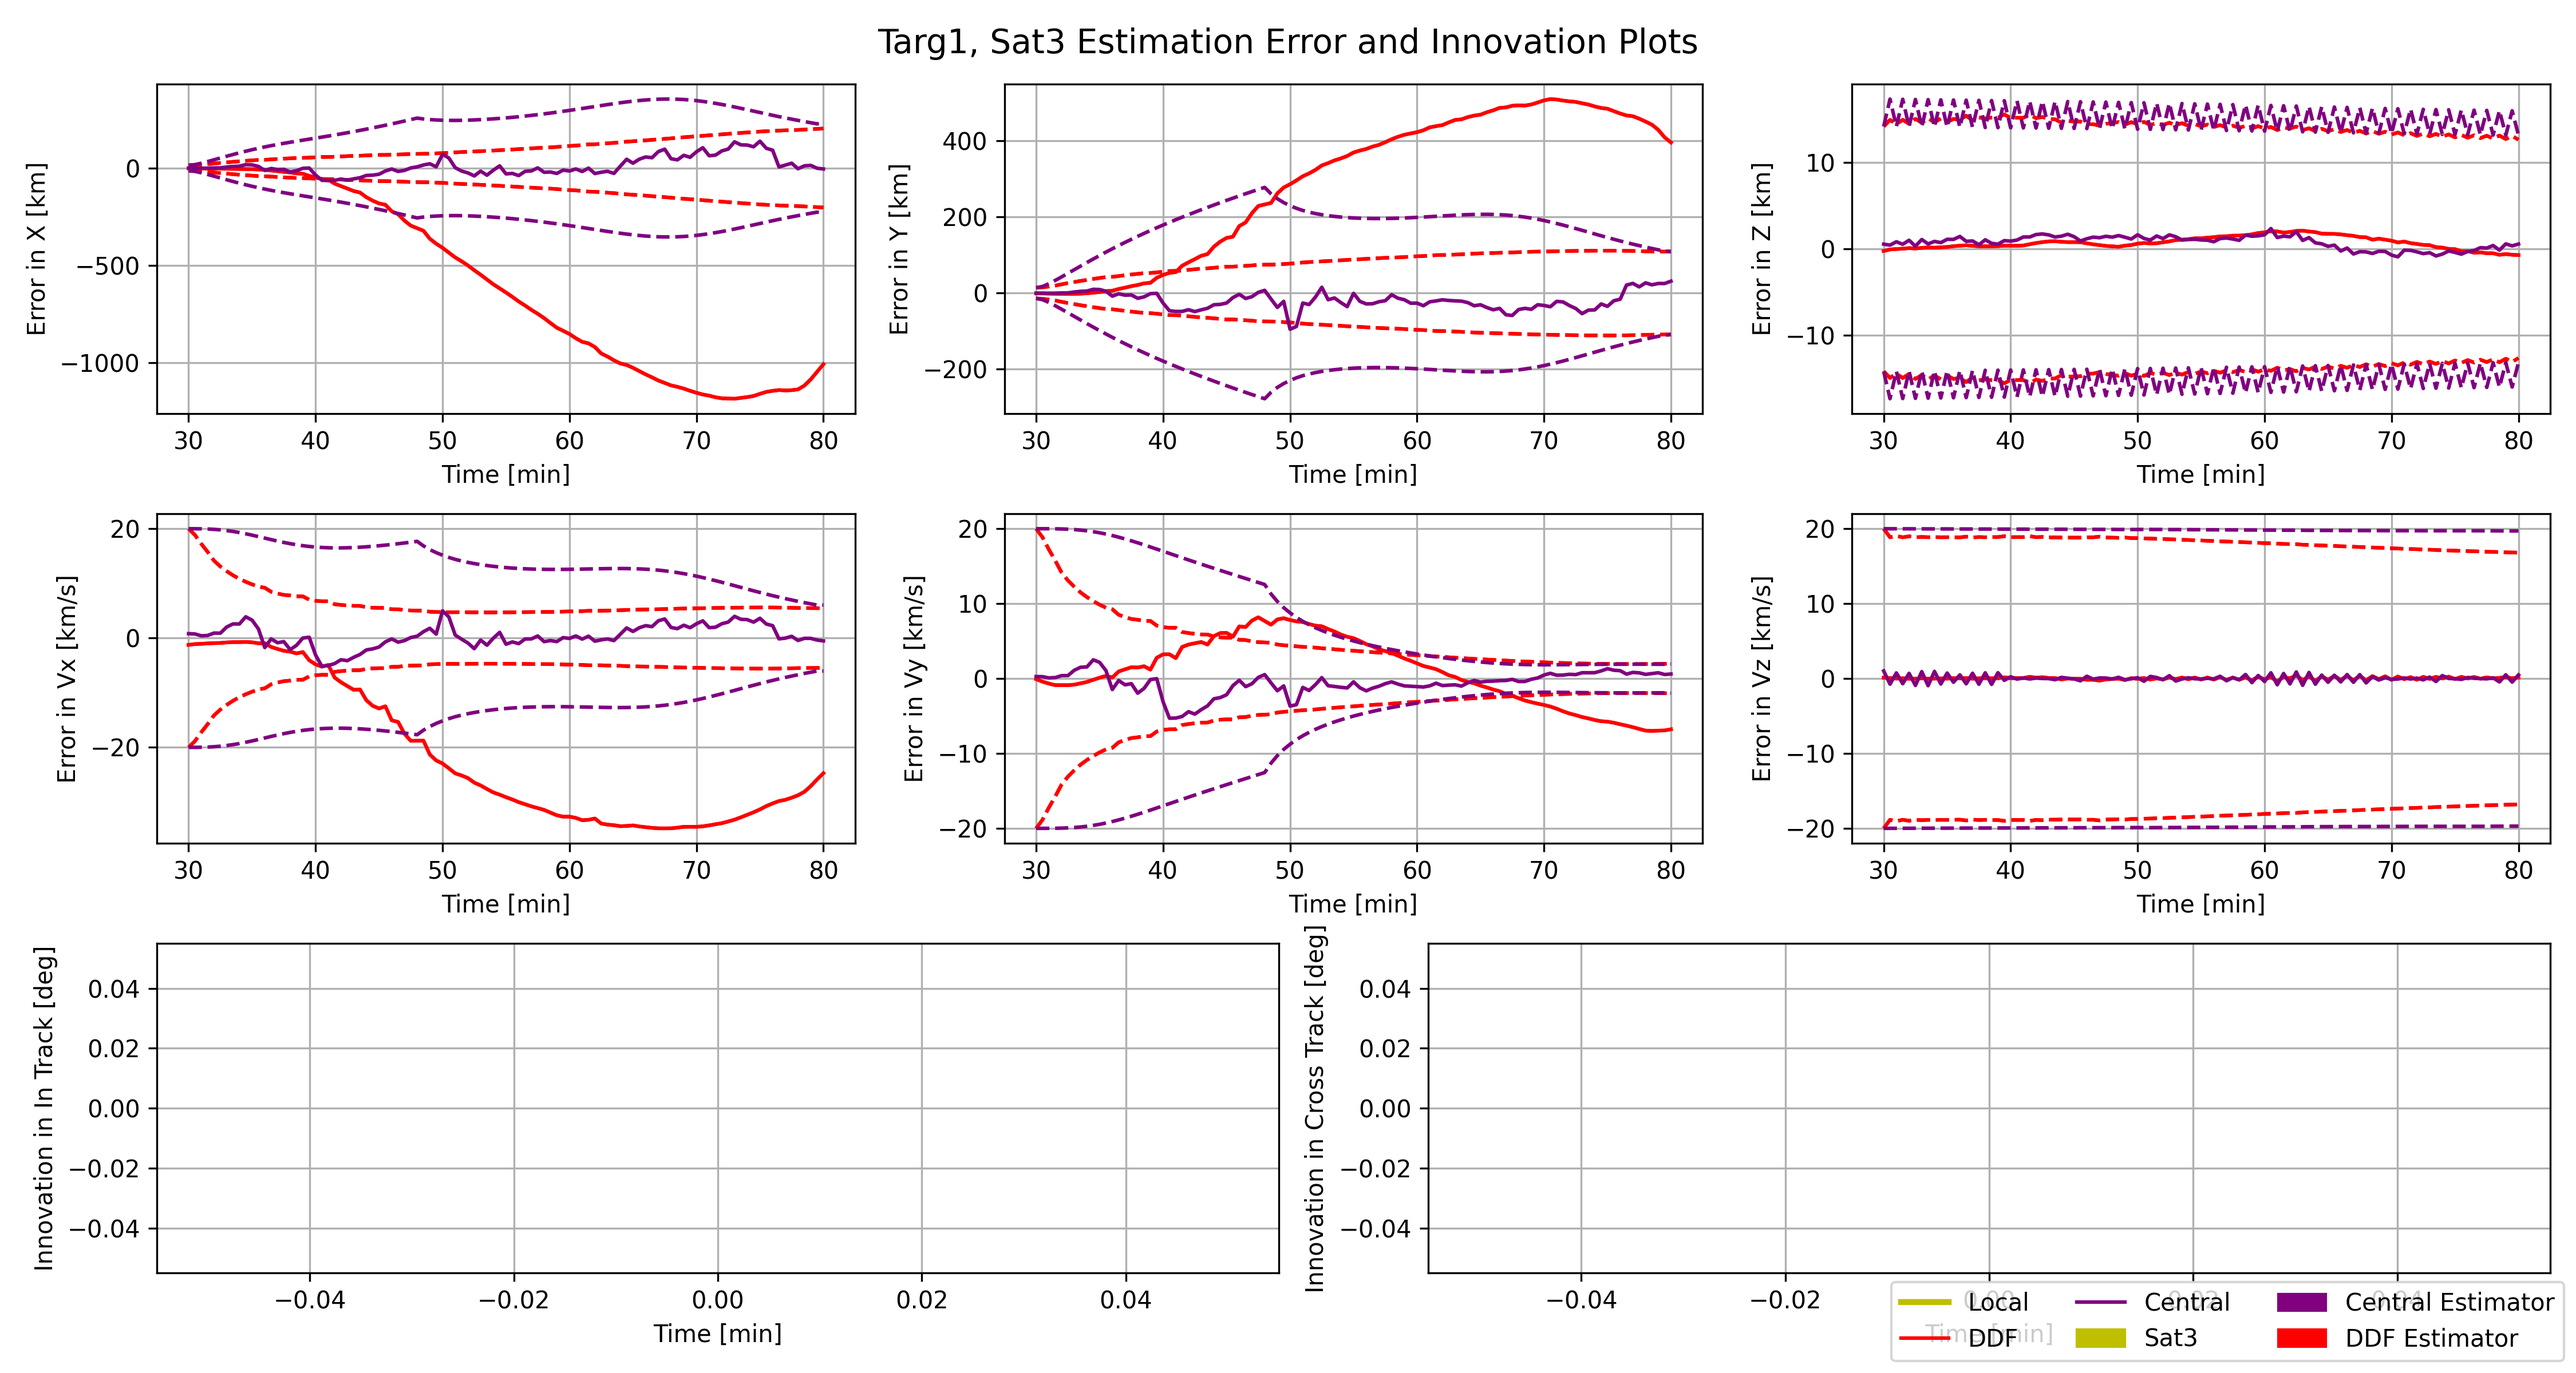
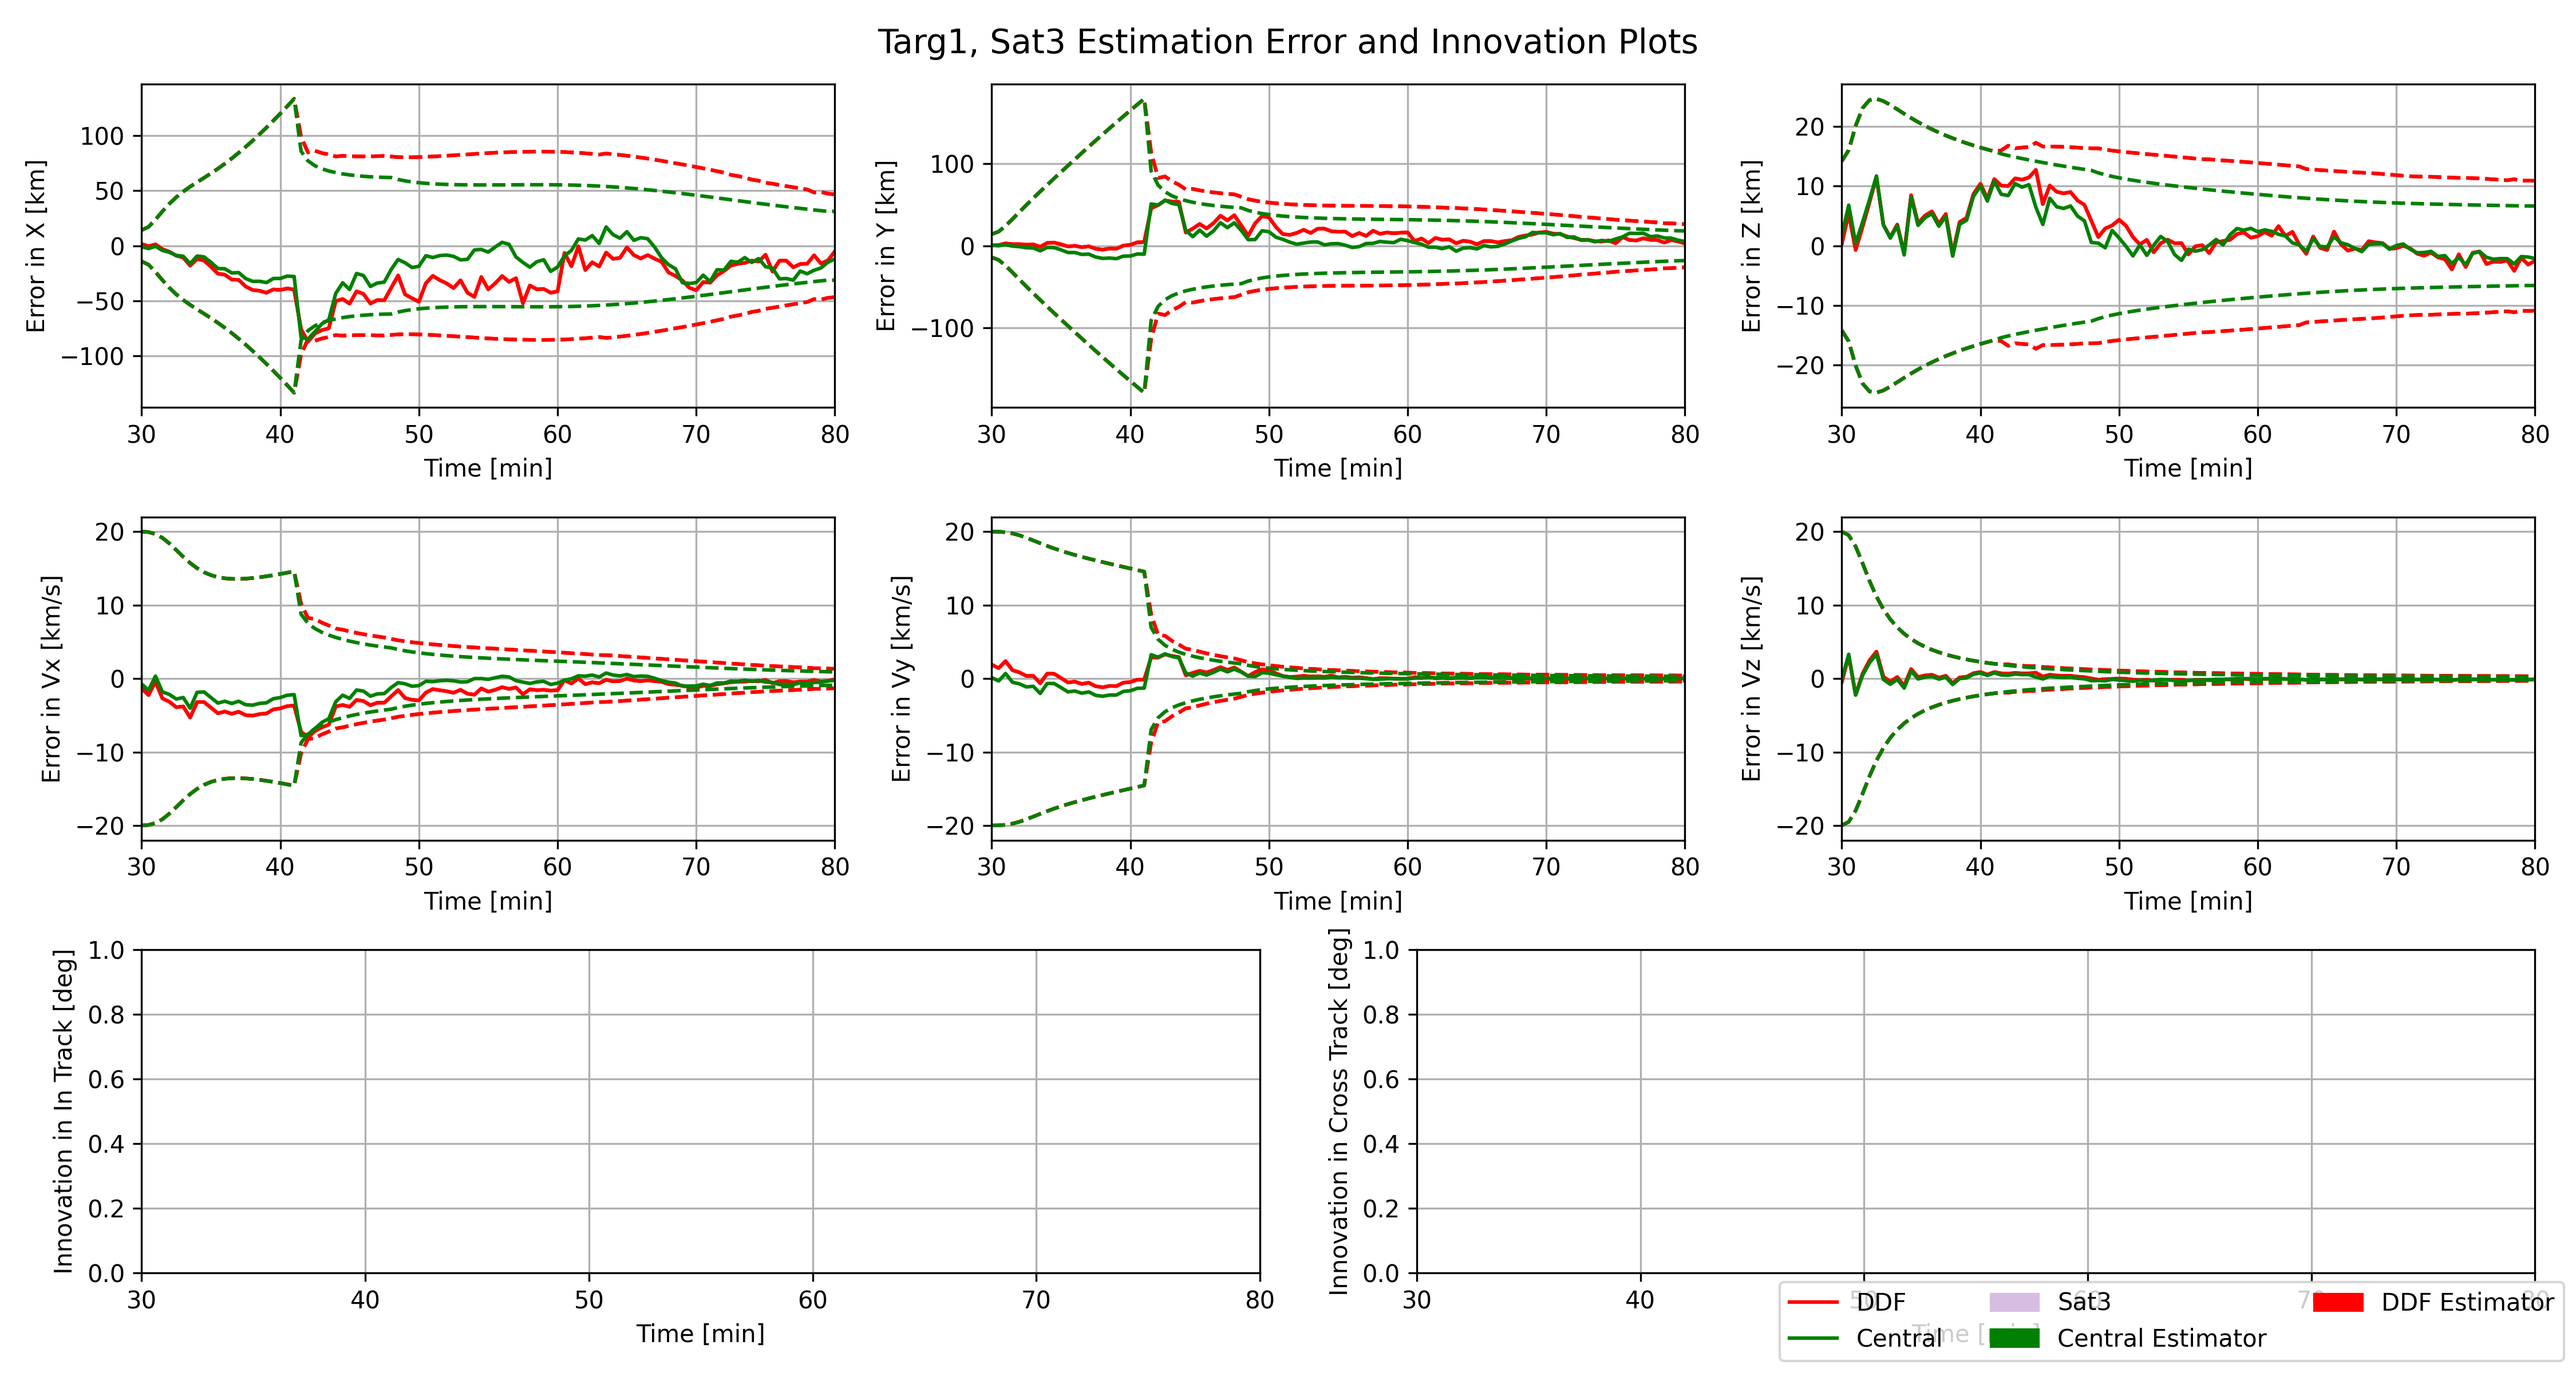
updated colors

diff --git a/phase1/main.py b/phase1/main.py
@@ -9,11 +9,63 @@ from estimatorClass import centralEstimator, indeptEstimator, ddfEstimator
 from sensorClass import sensor
 from commClass import comms
 
+def create_environment():
+    # Define a sensor model:
+    sens = sensor(name = 'Sensor', fov = 20, bearingsError = np.array([0.25, 0.1]))
+    #sens1 = sensor(name = 'Sensor 1', fov = 20, bearingsError = np.array([0.15, 0.05]))
+    #sens2 = sensor(name = 'Sensor 2', fov = 20, bearingsError = np.array([0.15, 0.05]))
+   
+    # Define targets for the satellites to track:
+    targetIDs = [1,2,3]
+
+    # Define local estimators:
+    local = indeptEstimator(targetIDs = targetIDs)
+
+    # Define the Data Fusion Algorithm, use the covariance intersection estimator:
+    ddf = ddfEstimator(targetIDs = targetIDs)
+
+    # Define the centralized estimator
+    # Define local estimators:
+    local = indeptEstimator(targetIDs = targetIDs)
+
+    # Define the Data Fusion Algorithm, use the covariance intersection estimator:
+    ddf = ddfEstimator(targetIDs = targetIDs)
+
+    # Define the centralized estimator
+    central = centralEstimator(targetIDs = targetIDs) 
+
+    # Colors: Purple, Pink, Light Purple, Light Pink, orange || Blue, dark cyan, 
+    hex_colors = ['#9467BD','#E377C2', '#D7BDE2', '#F8BBD0', '#FF7F0E', '#1F77B4', '#008B8B', '#1B4F72']
+    
+    # Define the satellites:
+    sat1 = satellite(name = 'Sat1', sensor = deepcopy(sens), targetIDs=targetIDs, indeptEstimator=deepcopy(local), ddfEstimator=deepcopy(ddf), a = Earth.R + 12000 * u.km, ecc = 0, inc = 0, raan = -35, argp = -55, nu = 0, color=hex_colors[0])
+    sat2 = satellite(name = 'Sat2', sensor = deepcopy(sens), targetIDs=targetIDs, indeptEstimator=deepcopy(local), ddfEstimator=deepcopy(ddf),  a = Earth.R + 12000 * u.km, ecc = 0, inc = 90, raan = -35, argp = -55, nu = 0, color=hex_colors[1])
+    sat3 = satellite(name = 'Sat3', sensor = deepcopy(sens), targetIDs=targetIDs, indeptEstimator=deepcopy(local), ddfEstimator=deepcopy(ddf),  a = Earth.R + 12000 * u.km, ecc = 0, inc = 90, raan = 0, argp = -90, nu = 0, color=hex_colors[2])
+    sat4 = satellite(name = 'Sat4', sensor = deepcopy(sens), targetIDs=targetIDs, indeptEstimator=deepcopy(local), ddfEstimator=deepcopy(ddf),  a = Earth.R + 12000 * u.km, ecc = 0, inc = 90, raan = 35, argp = -125, nu = 0, color=hex_colors[3])
+    sat5 = satellite(name = 'Sat5', sensor = deepcopy(sens), targetIDs=targetIDs, indeptEstimator=deepcopy(local), ddfEstimator=deepcopy(ddf),  a = Earth.R + 12000 * u.km, ecc = 0, inc = 45, raan = -35, argp = -55, nu = 0, color=hex_colors[4])
+    # sat6 = satellite(name = 'Sat6', sensor = deepcopy(sens), targetIDs=targetIDs, indeptEstimator=deepcopy(local), ddfEstimator=deepcopy(ddf),  a = Earth.R + 1000 * u.km, ecc = 0, inc = 0, raan = -45, argp = -90, nu = 0, color='m')
+
+    sats = [sat1, sat2, sat3, sat4, sat5] # , sat3, sat4]#, sat3, sat4, sat5, sat6]
+
+    # Define the target objects:
+    targ1 = target(name = 'Targ1', targetID=1, cords = np.array([0,-90,0]), heading=90, speed=95, climbrate = 0, color = hex_colors[5])
+    targ2 = target(name = 'Targ2', targetID=2, cords = np.array([0,0,0]), heading=0, speed=0, climbrate = 0, color = hex_colors[6])
+    targ3 = target(name = 'Targ3', targetID=3, cords = np.array([0,-25,0]), heading=45, speed=35, climbrate = 0, color = hex_colors[7])
+    #targ4 = target(name = 'Targ4', targetID=4, cords = np.array([0,-90,0]), heading=0, speed=0, climbrate = 0, color = hex_colors[7]) 
+    
+    targs = [targ1, targ2, targ3]
+
+    # Define the communication network:
+    comms_network = comms(sats, maxNeighbors = 3, maxRange = 15000*u.km, minRange = 1*u.km, displayStruct = True)
+
+    # Create and return an environment instance:
+    return environment(sats, targs, comms_network, central)
+
 
 #####################
 # Environment # 1:
 #####################
-def create_environment():
+def create_environment_2():
     # Define a sensor model:
     sens = sensor(name = 'Sensor', fov = 20, bearingsError = np.array([1.5, 1.5]))
     #sens1 = sensor(name = 'Sensor 1', fov = 20, bearingsError = np.array([0.15, 0.05]))

diff --git a/phase1/estimatorClass.py b/phase1/estimatorClass.py
@@ -163,54 +163,7 @@ class BaseEstimator:
         return Q
     
     def state_transition(self, estPrior, dt):
-        # # Takes in previous ECI State and returns the next state after dt
-        # x = estPrior[0]
-        # vx = estPrior[1]
-        # y = estPrior[2]
-        # vy = estPrior[3]
-        # z = estPrior[4]
-        # vz = estPrior[5]
-        
-        # # Turn into Spherical Coordinates
-        # range_ = jnp.sqrt(x**2 + y**2 + z**2)
-        # azimuth = jnp.arctan2(y, x)
-        # elevation = jnp.arcsin(z / range_)
-        
-        # # rangeRate = (x * vx + y * vy + z * vz) / (range_ * jnp.linalg.norm(jnp.array([vx, vy, vz])))
-        # rangeRate = (x * vx + y * vy + z * vz) / range_
-
-        # # Calculate azimuth rate
-        # # azimuthRate = (x * vy - y * vx) / (x**2 + y**2)
-        # azimuthRate = (x * vy - y * vx) / (x**2 + y**2)
-
-        # # Calculate elevation rate
-        # # elevationRate = (z * (vx * x + vy * y) - (x**2 + y**2) * vz) / ((x**2 + y**2 + z**2) * jnp.sqrt(x**2 + y**2))
-        # elevationRate = (z * (vx * x + vy * y) - vz * (x**2 + y**2)) / (range_ * jnp.sqrt(x**2 + y**2))
-
-        # # Print intermediate values (comment out if not needed in production)
-        # # jax.debug.print(
-        # #     "Predic: Range: {range_}, Range Rate: {rangeRate}, Elevation: {elevation}, Elevation Rate: {elevationRate}, Azimuth: {azimuth}, Azimuth Rate: {azimuthRate}",
-        # #     range_=range_, rangeRate=rangeRate, elevation=elevation, elevationRate=elevationRate, azimuth=azimuth, azimuthRate=azimuthRate)
-        
-        # # Propagate the State
-        # range_ = range_ + rangeRate * dt
-        # azimuth = azimuth + azimuthRate * dt
-        # elevation = elevation + elevationRate * dt
-       
-        # # Convert back to Cartesian
-        # x = range_ * jnp.cos(elevation) * jnp.cos(azimuth)
-        # y = range_ * jnp.cos(elevation) * jnp.sin(azimuth)
-        # z = range_ * jnp.sin(elevation)
-
-        # # Approximate velocities conversion (simplified version)
-        # # vx = rangeRate * jnp.cos(elevation) * jnp.cos(azimuth) + range_ * jnp.cos(elevation) * jnp.sin(azimuth * azimuthRate) + range_ * jnp.sin(elevation) * jnp.cos(azimuth) * elevationRate
-
-        # vx = x/range_ * rangeRate + y * azimuthRate + z * jnp.cos(azimuth) * elevationRate
-        # vy = y/range_ * rangeRate - x * azimuthRate + z * jnp.sin(azimuth) * elevationRate
-        # vz = z/range_ * rangeRate - range_ * jnp.cos(elevation) * elevationRate
-        
-        # return jnp.array([x, vx, y, vy, z, vz])
-
+    
         # Takes in previous ECI State and returns the next state after dt
         x = estPrior[0]
         vx = estPrior[1]
@@ -259,24 +212,6 @@ class BaseEstimator:
         vz = rangeRate * jnp.sin(elevation) + \
             range * elevationRate * jnp.cos(elevation)
 
-        # vx = jnp.cos(elevation) * jnp.cos(azimuth) * rangeRate + range * jnp.cos(elevation) * jnp.sin(azimuth) * azimuthRate + range * jnp.sin(elevation) * jnp.cos(azimuth) * elevationRate
-        # vy = jnp.cos(elevation) * jnp.sin(azimuth) * rangeRate - range * jnp.cos(elevation) * jnp.cos(azimuth) * azimuthRate + range * jnp.sin(elevation) * jnp.sin(azimuth) * elevationRate
-        # vz = jnp.sin(elevation) * rangeRate - range * jnp.cos(elevation) * elevationRate
-
-        # # calculate more accurate velocities
-        # vx_lin = estPrior[1] * dt
-        # vy_lin = estPrior[3] * dt
-        # vz_lin = estPrior[5] * dt
-
-        # # mean them
-        # vx = (vx + vx_lin) / 2
-        # vy = (vy + vy_lin) / 2
-        # vz = (vz + vz_lin) / 2
-
-        # TODO: DEBUG THIS SOMEHOW IS WRONG
-
-        print("Estimate: Range: ", range, "Range Rate: ", rangeRate, "Elevation: ", elevation, "Elevation Rate: ", elevationRate, "Azimuth: ", azimuth, "Azimuth Rate: ", azimuthRate)
-        
         return jnp.array([x, vx, y, vy, z, vz])
 
     def state_transition_jacobian(self, estPrior, dt):

diff --git a/phase1/targetClass.py b/phase1/targetClass.py
@@ -71,20 +71,11 @@ class target:
         elevationRate = self.X[3]
         azimuth = self.X[4]
         azimuthRate = self.X[5]
-        
-        print("Time: ", time)
-        print("Target: Range: ", range, "Range Rate: ", rangeRate, "Elevation: ", elevation, "Elevation Rate: ", elevationRate, "Azimuth: ", azimuth, "Azimuth Rate: ", azimuthRate)
-        
+ 
         # Convert Spherical to Cartesian
         x = range * np.cos(elevation) * np.cos(azimuth)
         y = range * np.cos(elevation) * np.sin(azimuth)
         z = range * np.sin(elevation)
-
-        # TODO: DO NOT APPROIMATE VELOCITY CONVERSIONS
-        # vx = np.cos(elevation) * np.cos(azimuth) * rangeRate + range * np.cos(elevation) * np.sin(azimuth) * azimuthRate + range * np.sin(elevation) * np.cos(azimuth) * elevationRate
-        # vy = np.cos(elevation) * np.sin(azimuth) * rangeRate - range * np.cos(elevation) * np.cos(azimuth) * azimuthRate + range * np.sin(elevation) * np.sin(azimuth) * elevationRate
-        # vz = np.sin(elevation) * rangeRate - range * np.cos(elevation) * elevationRate
-
 
         # Approximate velocities conversion (simplified version)
         vx = rangeRate * np.cos(elevation) * np.cos(azimuth) - \
@@ -98,24 +89,6 @@ class target:
         vz = rangeRate * np.sin(elevation) + \
             range * elevationRate * np.cos(elevation)
 
-        # print("Time: ", time)
-        # print("Z position: ", z)
-        # print("Z velocity: ", vz)
-
-        # # if the z or vz is close to zero, set it to 0
-        # if abs(z) < 1e-5:
-        #     z = 0
-        # if abs(vz) < 1e-5:
-        #     vz = 0
-        
-        # TODO: WHEN HAVE A RANGE RATE, VELOCITY IS NOT CONSTANT!
-        # print(np.linalg.norm(np.array([vx, vy, vz])))
         self.pos = np.array([x, y, z])  
         self.vel = np.array([vx, vy, vz])
-
-        print("Target: X: ", self.pos[0], "Y: ", self.pos[1], "Z: ", self.pos[2])
-        print("Target: VX: ", self.vel[0], "VY: ", self.vel[1], "VZ: ", self.vel[2])
-
-        # print("Norm of velocity: ", np.linalg.norm(self.vel))
-        
         
